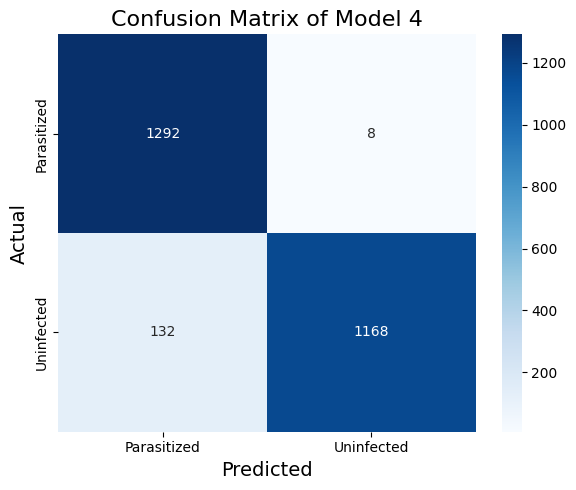
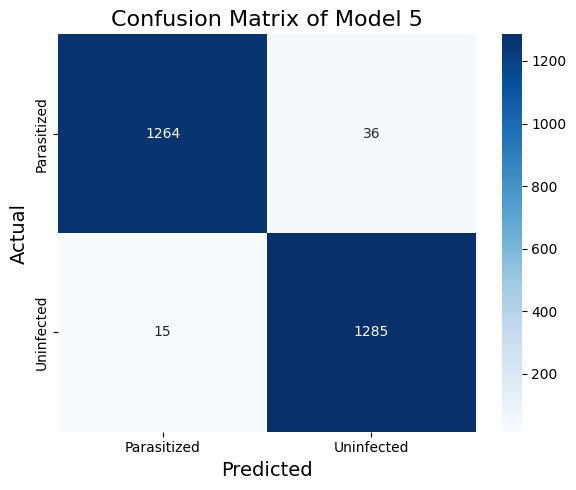
model bug fix

diff --git a/_posts/2024-08-20-malaria-detection-4.md b/_posts/2024-08-20-malaria-detection-4.md
@@ -75,13 +75,19 @@ class LoRAConv2D(tf.keras.layers.Layer):
         self.padding = padding
 
     def build(self, input_shape):
-        # Original convolution weights (frozen). Trainable=False to prevent updating the weights.
+        # Original convolution weights (frozen)
         self.conv_weight = self.add_weight(
             shape=(self.kernel_size[0], self.kernel_size[1], input_shape[-1], self.filters),
             initializer='glorot_uniform',
             trainable=False, name='conv_weight'
         )
-        
+        # Original bias weights (frozen)        
+        self.bias = self.add_weight(
+            shape=(self.filters,),
+            initializer='zeros',
+            trainable=False, name='bias'
+        )
+
         # Low-rank adaptation weights
         self.A = self.add_weight(
             shape=(
@@ -97,6 +103,7 @@ class LoRAConv2D(tf.keras.layers.Layer):
             trainable=True, name='B'
         )
 
+
     def call(self, inputs):
         # Original convolution operation
         original_output = tf.nn.conv2d(
@@ -107,7 +114,9 @@ class LoRAConv2D(tf.keras.layers.Layer):
         delta_output = tf.nn.conv2d(inputs, self.A, strides=(1, 1), padding='SAME')
         delta_output = tf.nn.conv2d(delta_output, self.B, strides=(1, 1), padding='SAME')
         
-        return original_output + delta_output
+        output = original_output + delta_output
+        output = tf.nn.bias_add(output, self.bias)
+        return output
 ```
 
 ## Application of LoRA to Finetuning VGG16 to Malaria Detection
@@ -115,51 +124,59 @@ We build a `model_5` that takes the VGG16 model and applies LoRA to the last thr
 
 ```python
 def build_model_5():
-  set_seed()
-  vgg16_model.trainable = False
-  transfer_layer = vgg16_model.get_layer('block4_pool')
-  b5_conv1 = vgg16_model.get_layer('block5_conv1')
-  b5_conv2 = vgg16_model.get_layer('block5_conv2')
-  b5_conv3 = vgg16_model.get_layer('block5_conv3')
-  b5_conv1_weight = b5_conv1.get_weights()[0]
-  b5_conv2_weight = b5_conv2.get_weights()[0]
-  b5_conv3_weight = b5_conv3.get_weights()[0]
-  x = LoRAConv2D(kernel_size=b5_conv1.kernel_size, filters=b5_conv1.filters, strides=b5_conv1.strides, padding=b5_conv1.padding, rank=5)(transfer_layer.output)
-  x = LoRAConv2D(kernel_size=b5_conv2.kernel_size, filters=b5_conv2.filters, strides=b5_conv2.strides, padding=b5_conv2.padding, rank=5)(x)
-  x = LoRAConv2D(kernel_size=b5_conv3.kernel_size, filters=b5_conv3.filters, strides=b5_conv3.strides, padding=b5_conv3.padding, rank=5)(x)
-  x = MaxPooling2D(pool_size=(2, 2))(x)
-  x = LeakyReLU(alpha=0.1)(x)
-  x = Flatten()(x)
-  x = Dense(512)(x)
-  x = BatchNormalization()(x)
-  x = LeakyReLU(alpha=0.1)(x)
-  x = Dropout(0.5)(x)
-  x = Dense(256)(x)
-  x = BatchNormalization()(x)
-  x = LeakyReLU(alpha=0.1)(x)
-  x = Dropout(0.5)(x)
-  pred = Dense(2, activation='softmax')(x)
-  model = Model(vgg16_model.input, pred)
-  model.get_layer('lo_ra_conv2d').conv_weight.assign(b5_conv1_weight)
-  model.get_layer('lo_ra_conv2d_1').conv_weight.assign(b5_conv2_weight)
-  model.get_layer('lo_ra_conv2d_2').conv_weight.assign(b5_conv3_weight)
-  return model
+    set_seed()
+    vgg16_model.trainable = False
+    transfer_layer = vgg16_model.get_layer('block4_pool')
+    b5_conv1 = vgg16_model.get_layer('block5_conv1')
+    b5_conv2 = vgg16_model.get_layer('block5_conv2')
+    b5_conv3 = vgg16_model.get_layer('block5_conv3')
+    b5_conv1_weight = b5_conv1.get_weights()[0]
+    b5_conv2_weight = b5_conv2.get_weights()[0]
+    b5_conv3_weight = b5_conv3.get_weights()[0]
+    b5_conv1_bias = b5_conv1.get_weights()[1]
+    b5_conv2_bias = b5_conv2.get_weights()[1]
+    b5_conv3_bias = b5_conv3.get_weights()[1]
+    x = LoRAConv2D(kernel_size=b5_conv1.kernel_size, filters=b5_conv1.filters, strides=b5_conv1.strides, padding=b5_conv1.padding, rank=5)(transfer_layer.output)
+    x = LoRAConv2D(kernel_size=b5_conv2.kernel_size, filters=b5_conv2.filters, strides=b5_conv2.strides, padding=b5_conv2.padding, rank=5)(x)
+    x = LoRAConv2D(kernel_size=b5_conv3.kernel_size, filters=b5_conv3.filters, strides=b5_conv3.strides, padding=b5_conv3.padding, rank=5)(x)
+    x = MaxPooling2D(pool_size=(2, 2))(x)
+    x = LeakyReLU(alpha=0.1)(x)
+    x = Flatten()(x)
+    x = Dense(512)(x)
+    x = BatchNormalization()(x)
+    x = LeakyReLU(alpha=0.1)(x)
+    x = Dropout(0.5)(x)
+    x = Dense(256)(x)
+    x = BatchNormalization()(x)
+    x = LeakyReLU(alpha=0.1)(x)
+    x = Dropout(0.5)(x)
+    pred = Dense(2, activation='softmax')(x)
+    model = Model(vgg16_model.input, pred)
+
+    model.get_layer('lo_ra_conv2d').conv_weight.assign(b5_conv1_weight)
+    model.get_layer('lo_ra_conv2d_1').conv_weight.assign(b5_conv2_weight)
+    model.get_layer('lo_ra_conv2d_2').conv_weight.assign(b5_conv3_weight)
+
+    model.get_layer('lo_ra_conv2d').bias.assign(b5_conv1_bias)
+    model.get_layer('lo_ra_conv2d_1').bias.assign(b5_conv2_bias)
+    model.get_layer('lo_ra_conv2d_2').bias.assign(b5_conv3_bias)
+    return model
 ```
 
 ## Results
 ### VGG16 with LoRA Finetuning
 
-Table 1 shows the classification report of the VGG16 model with LoRA finetuning (`model_5`). The LoRA finetuned VGG16 model does not perform as well as the traditionally finetuned VGG16 (`model_4`, results in Table 2). In `model_4`, we finetune with two convolutional layers and two dense layers. In `model_5`, we finetune with three LoRA convolutional layers and two dense layers.
+Table 1 shows the classification report of the VGG16 model with LoRA finetuning (`model_5`). The LoRA finetuned VGG16 model perform about as well as the traditionally finetuned VGG16 (`model_4`, results in Table 2). The recall metric on the parasitized cases is a bit lower but the model achieves the best precision thus far. In `model_4`, we finetune with two convolutional layers and two dense layers. In `model_5`, we finetune with the last three Conv2D layers with LoRA and two dense layers.
 
 **Table 1. The Classification Report of Model 5** 
 
 |     | precision | recall | f1-score | support | 
 |-----|-----------|--------|----------|---------| 
-| Uninfected    | 0.99      | 0.90   | 0.94     | 1300    | 
-| Parasitized   | 0.91      | 0.99   | 0.95     | 1300    | 
-| accuracy      |           |        | 0.95     | 2600    | 
-| macro avg     | 0.95      | 0.95   | 0.95     | 2600    | 
-| weighted avg  | 0.95      | 0.95   | 0.95     | 2600    |
+| Uninfected    | 0.97      | 0.99   | 0.98     | 1300    | 
+| Parasitized   | 0.99      | 0.97   | 0.98     | 1300    | 
+| accuracy      |           |        | 0.98     | 2600    | 
+| macro avg     | 0.98      | 0.98   | 0.98     | 2600    | 
+| weighted avg  | 0.98      | 0.98   | 0.98     | 2600    |
 
 
 **Table 2. The Classification Report of Model 4**
